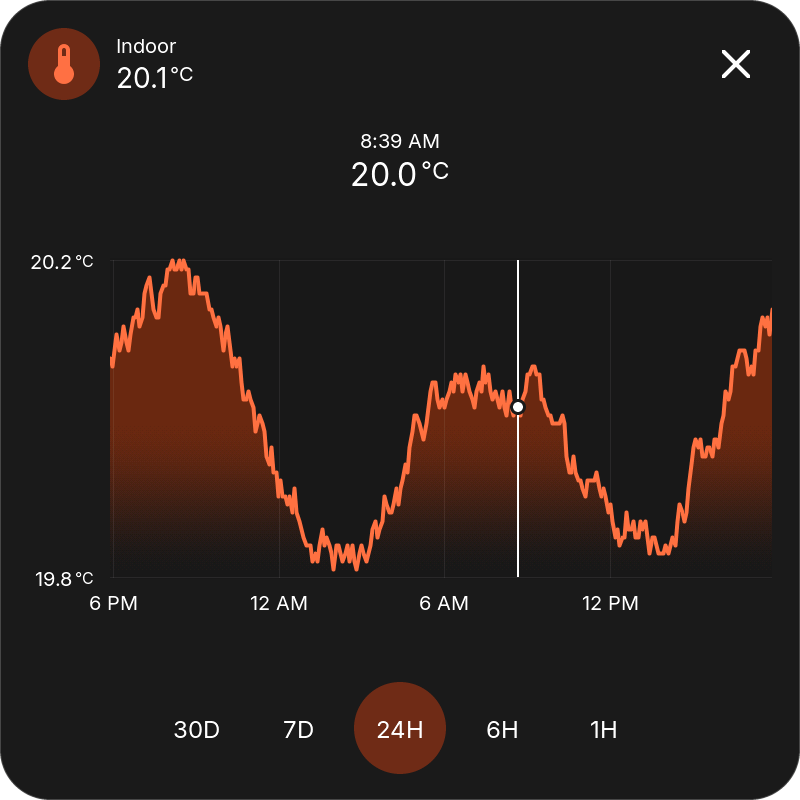
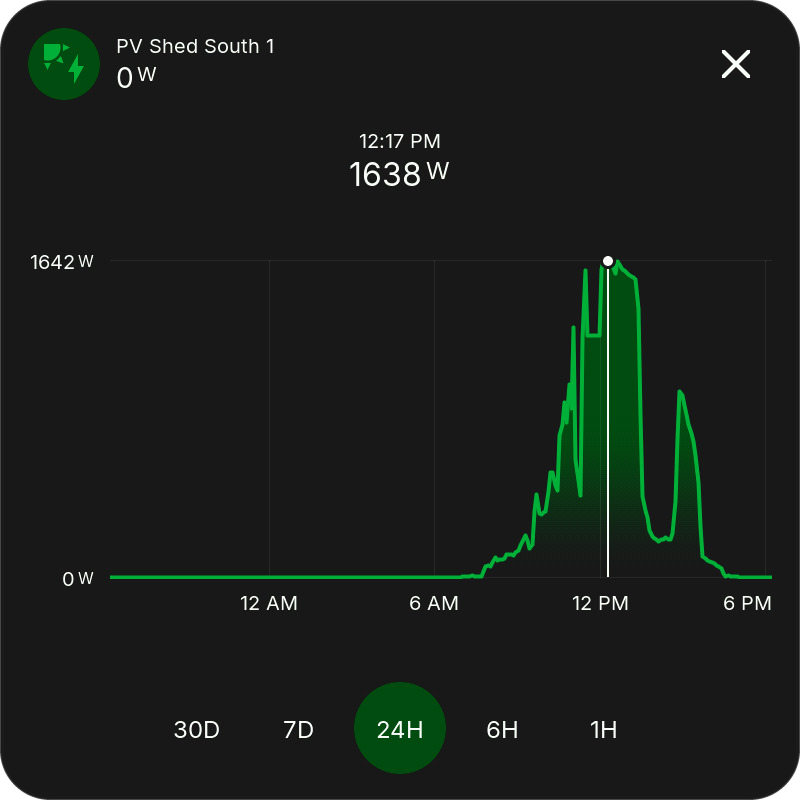
Docs pictures for v0.9.6: Power Flow tile, Sensor graph, stripes and arc looks, Energy bars, Sensor popup with five ranges
Cut from Guition JC8012P4A1 V2 screenshots along the cards (transparent
rounded corners, radius 32); the popup keeps the docs popup frame.

diff --git a/docs/tiles.md b/docs/tiles.md
@@ -49,8 +49,23 @@ Shows a numeric or text-valued `sensor.*` entity. Configure the unit, decimals, 
 </figure>
 </div>
 <figure class="ht-screenshot ht-popup">
-<img style="width:420px" src="../images/v09-popup-sensor.png" alt="Sensor history over 24 hours with a read value" width="800" height="800" loading="lazy">
+<img style="width:420px" src="../images/v09-popup-sensor.png" alt="Solar power over 24 hours with a read value" width="800" height="800" loading="lazy">
 <figcaption>Popup, 24 hours</figcaption>
+</figure>
+</div>
+
+<div class="ht-type-shots" markdown>
+<figure class="ht-screenshot">
+<img style="width:232px" src="../images/tile-sensor-graph.png" alt="Sensor tile with the solar power of the day as a graph" width="299" height="152" loading="lazy">
+<figcaption>Graph</figcaption>
+</figure>
+<figure class="ht-screenshot">
+<img style="width:232px" src="../images/tile-sensor-stripes.png" alt="Sensor tile with a striped bar" width="299" height="152" loading="lazy">
+<figcaption>Stripes</figcaption>
+</figure>
+<figure class="ht-screenshot">
+<img style="width:232px" src="../images/tile-sensor-arc.png" alt="Battery tile with a striped arc and the value inside" width="299" height="152" loading="lazy">
+<figcaption>Striped arc</figcaption>
 </figure>
 </div>
 
@@ -155,6 +170,10 @@ Shows Home Assistant **Energy Dashboard** statistics for electricity, gas, water
 <img style="width:101px" src="../images/tile-energy-yield-half.png" alt="Half-height energy tile with today's solar yield" width="168" height="64" loading="lazy">
 <figcaption>Half height</figcaption>
 </figure>
+<figure class="ht-screenshot">
+<img style="width:232px" src="../images/tile-energy-graph.png" alt="Energy tile with today's solar yield as hourly bars" width="299" height="152" loading="lazy">
+<figcaption>Graph</figcaption>
+</figure>
 </div>
 
 <div class="ht-type-shots" markdown>
@@ -173,6 +192,13 @@ Shows Home Assistant **Energy Dashboard** statistics for electricity, gas, water
 ### Power Flow
 
 Shows the power of the solar panels, the grid, a battery, and the home as nodes, with dots that move along the lines in the direction the power flows and faster when more power flows. Choose a power sensor for each node; a node without a sensor stays hidden. **Invert sign** turns around a grid or battery sensor that counts the other way, and a battery charge sensor adds its level to the battery node. **Show title and icon** adds the tile header, and **Show card** draws the tile's card behind the nodes.
+
+<div class="ht-type-shots" markdown>
+<figure class="ht-screenshot">
+<img style="width:312px" src="../images/tile-power-flow.png" alt="Power flow tile: the battery supplies the home with 4.1 kW" width="404" height="320" loading="lazy">
+<figcaption>Battery to home</figcaption>
+</figure>
+</div>
 
 Tap a node to open its sensor's popup.
 
